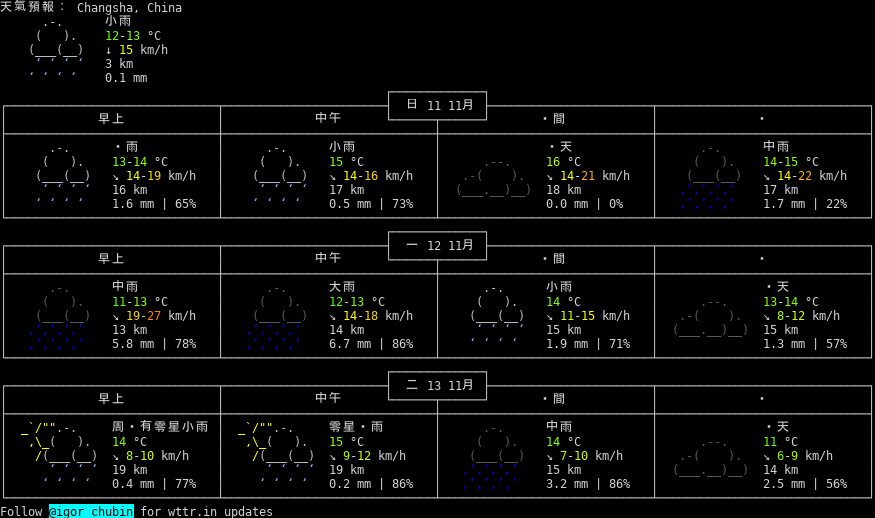
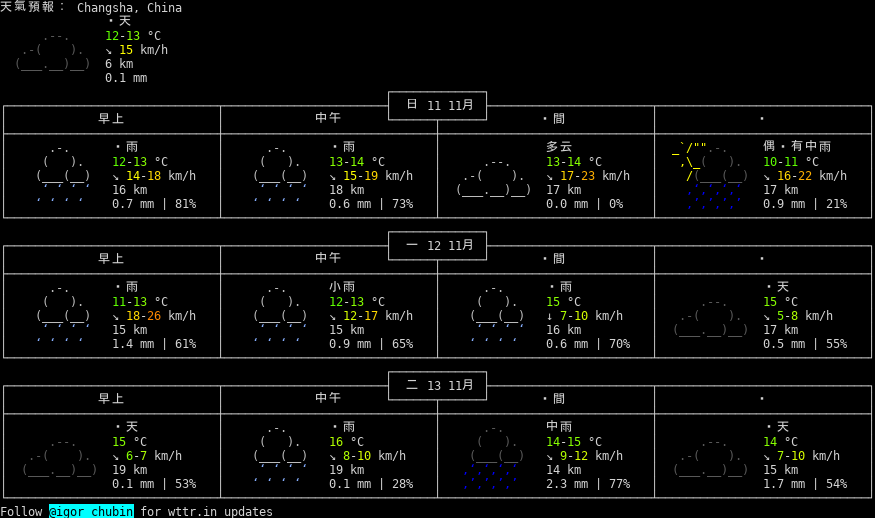
update Today's log:)

diff --git a/README.md b/README.md
@@ -842,3 +842,4 @@ My Shell_script learning note
 * 2018年11月11日 星期Sun AM 3:00 CST   天气: 10-12°C (Amsterdam, Netherlands)
 * 2018年11月11日 星期Sun AM 3:20 CST   天气: 10-12°C (Amsterdam, Netherlands)
 * 2018年11月11日 星期Sun AM 3:40 CST   天气: 10-12°C (Amsterdam, Netherlands)
+* 2018年11月11日 星期Sun AM 4:00 CST   天气: 9-11°C (Amsterdam, Netherlands)

diff --git a/weather.md b/weather.md
@@ -3197,3 +3197,7 @@
 
 ![](PNG/20181111.png)
 
+2018年 11月 11日
+
+![](PNG/20181111.png)
+
